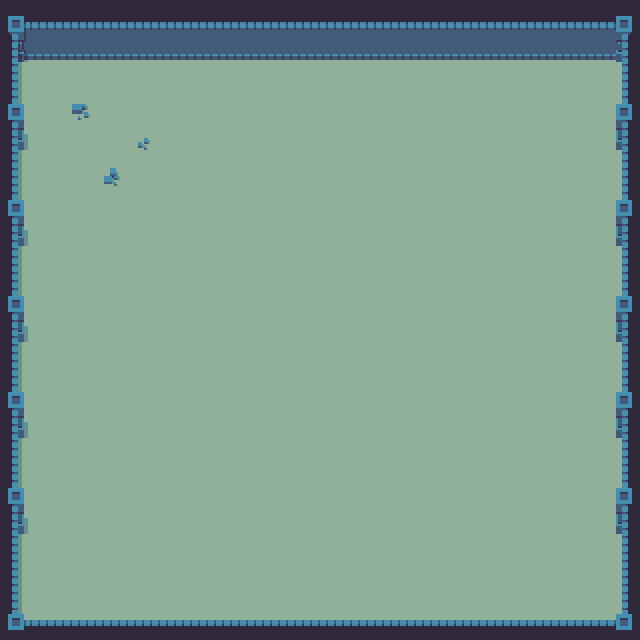
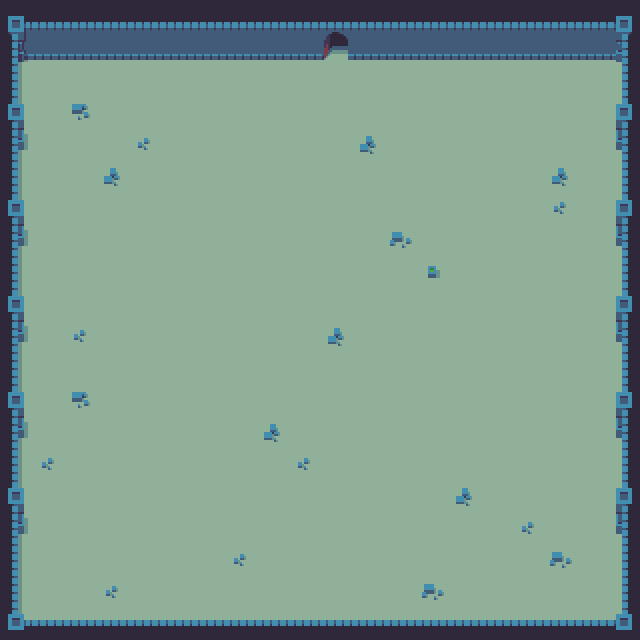
Modify scifi_dungeon.png.

diff --git a/game_window.rb b/game_window.rb
@@ -9,7 +9,7 @@ class GameWindow < Gosu::Window
     @background_image = Gosu::Image.new('media/scifi_dungeon.png', :tileable => true)
     @player = Player.new(self)
     @coins = []
-    100.times do
+    50.times do
       coin = Coin.new(self)
       @coins << coin
     end
@@ -24,7 +24,7 @@ class GameWindow < Gosu::Window
   	@player.update
     @coins.each do |coin|
       coin.update
-      if (@player.x_position + 16).between?(coin.x_position - 10, coin.x_position + 28) && (@player.y_position + 16).between?(coin.y_position - 10, coin.y_position + 18)
+      if (@player.x_position + 16).between?(coin.x_position - 10, coin.x_position + 28) && (@player.y_position + 16).between?(coin.y_position - 10, coin.y_position + 28)
         @player.score += 1
         @coins.delete(coin)
       end
